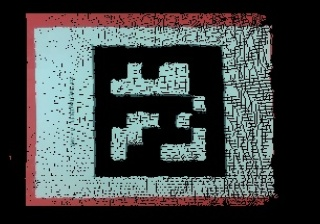
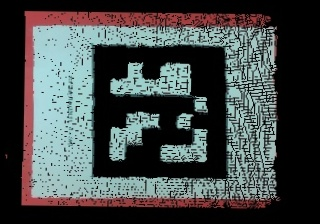
rotated

diff --git a/src/heightmap_creator/src/adjustment.cpp b/src/heightmap_creator/src/adjustment.cpp
@@ -61,14 +61,12 @@ void thresh_callback(int, void* )
 
   /// Approximate contours to polygons + get bounding rects and circles
   vector<vector<Point> > contours_poly( contours.size() );
-  vector<Rect> boundRect( contours.size() );
-  vector<Point2f>center( contours.size() );
+  vector<RotatedRect> boundRect( contours.size() );
   vector<float>radius( contours.size() );
-  Rect Apriltagbox;
+  Point2f Apriltagbox[4];
   for( int i = 0; i < contours.size(); i++ )
      { approxPolyDP( Mat(contours[i]), contours_poly[i], 3, true );
-       boundRect[i] = boundingRect( Mat(contours_poly[i]) );
-       //minEnclosingCircle( (Mat)contours_poly[i], center[i], radius[i] );
+       boundRect[i] = minAreaRect( Mat(contours_poly[i]) );
      }
 
 
@@ -78,15 +76,17 @@ void thresh_callback(int, void* )
      {
        Scalar color = Scalar( rng.uniform(0, 255), rng.uniform(0,255), rng.uniform(0,255) );
        drawContours( drawing, contours_poly, i, color, 1, 8, vector<Vec4i>(), 0, Point() );
-       int size = (boundRect[i].br().x-boundRect[i].tl().x)*(boundRect[i].br().y-boundRect[i].tl().y);
-       
+       float size = boundRect[i].size.width*boundRect[i].size.height;
+       //cout << size << endl;
        if (size>15000 && size<18000){
-		std::cout << "top_left_point:" << boundRect[i].tl() <<" width:" << boundRect[i].br().x-boundRect[i].tl().x << " height:" << boundRect[i].br().y-boundRect[i].tl().y << std::endl;
-       	rectangle( drawing, boundRect[i].tl(), boundRect[i].br(), color, 2, 8, 0 );
-       	Apriltagbox = boundRect[i];
+       	for( int j = 0; j < 4; j++ ){
+       	  boundRect[i].points(Apriltagbox);
+          line( drawing, Apriltagbox[j], Apriltagbox[(j+1)%4], Scalar(0,255,0), 1, 8 );  
+          //cout << Apriltagbox[j] << endl;
+       	}
 
        }
-       //circle( drawing, center[i], (int)radius[i], color, 2, 8, 0 );
+ 
      }
 
   /// Show in a window
@@ -97,15 +97,16 @@ void thresh_callback(int, void* )
   //top_left: 160-65=95 112-65=47 130*130
   Point2f srcpnts[4];
   Point2f dstpnts[4];
-  srcpnts[0] = Apriltagbox.tl();
-  srcpnts[1] = Point2f(Apriltagbox.tl().x, Apriltagbox.br().y);
-  srcpnts[2] = Apriltagbox.br();
-  srcpnts[3] = Point2f(Apriltagbox.br().x, Apriltagbox.tl().y);
+
+  srcpnts[0] = Apriltagbox[1];
+  srcpnts[1] = Apriltagbox[0];
+  srcpnts[2] = Apriltagbox[3];
+  srcpnts[3] = Apriltagbox[2];
   dstpnts[0] = Point2f(95, 47);
   dstpnts[1] = Point2f(95, 47+130);
   dstpnts[2] = Point2f(95+130, 47+130);
   dstpnts[3] = Point2f(95+130, 47);
-
+  cout << Apriltagbox[0] << Apriltagbox[1] << Apriltagbox[2] << Apriltagbox[3] << endl;
   
   warp_mat = getAffineTransform( srcpnts, dstpnts );
 
